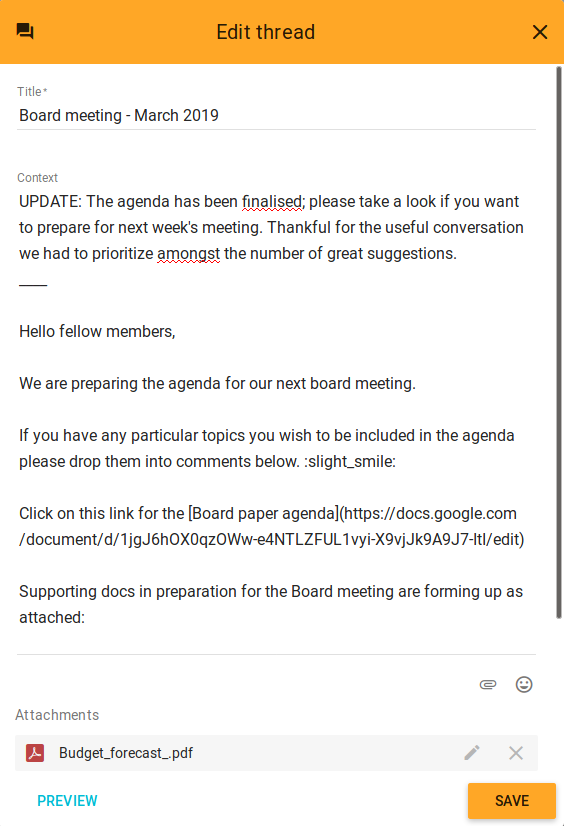
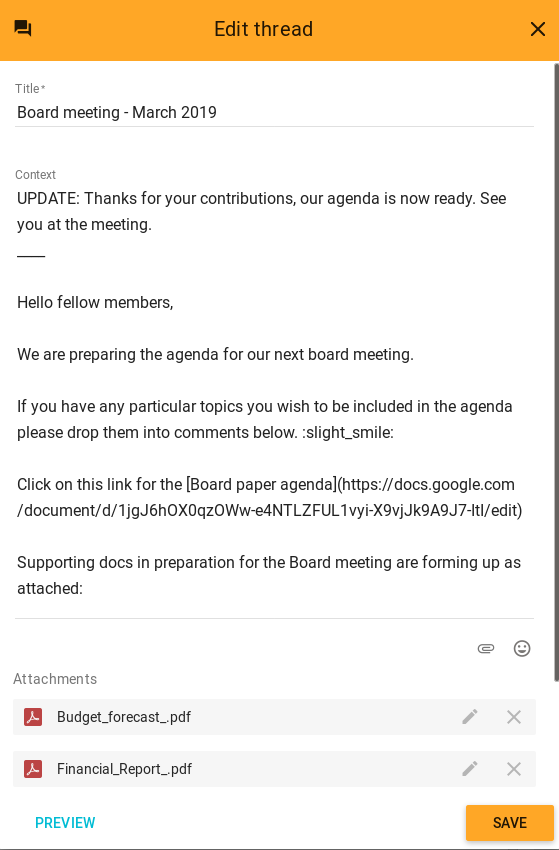
tightening up the example of updating context

diff --git a/content/user_manual/getting_started/having_discussions/index.md b/content/user_manual/getting_started/having_discussions/index.md
@@ -113,9 +113,9 @@ Loomio threads are designed to evolve with a discussion, which is why the title 
 
 Here's an example in which the facilitator is notifying the group what has happened as a result of their agenda suggestions.
 
-![Edit thread box showing the following text added to the top of a thread inviting agenda suggestions for an upcoming board meeting: "UPDATE: The agenda has been finalised; please take a look if you want to prepare for next week's meeting. Thankful for the useful conversation we had to prioritize amongst the number of great suggestions."](update_context.png)
+![Edit thread box showing the following text added to the top of a thread inviting agenda suggestions for an upcoming board meeting: "UPDATE: Thanks for your contributions, our agenda is now ready. See you at the meeting."](update_context.png)
 
-The facilitator let group members know what is next, and acknowledged what happened with input that was acted upon as well as suggestions that were not used.
+Updating the context with an outcome lets group members know what is next.
 
 ## Break down complex issues
 
